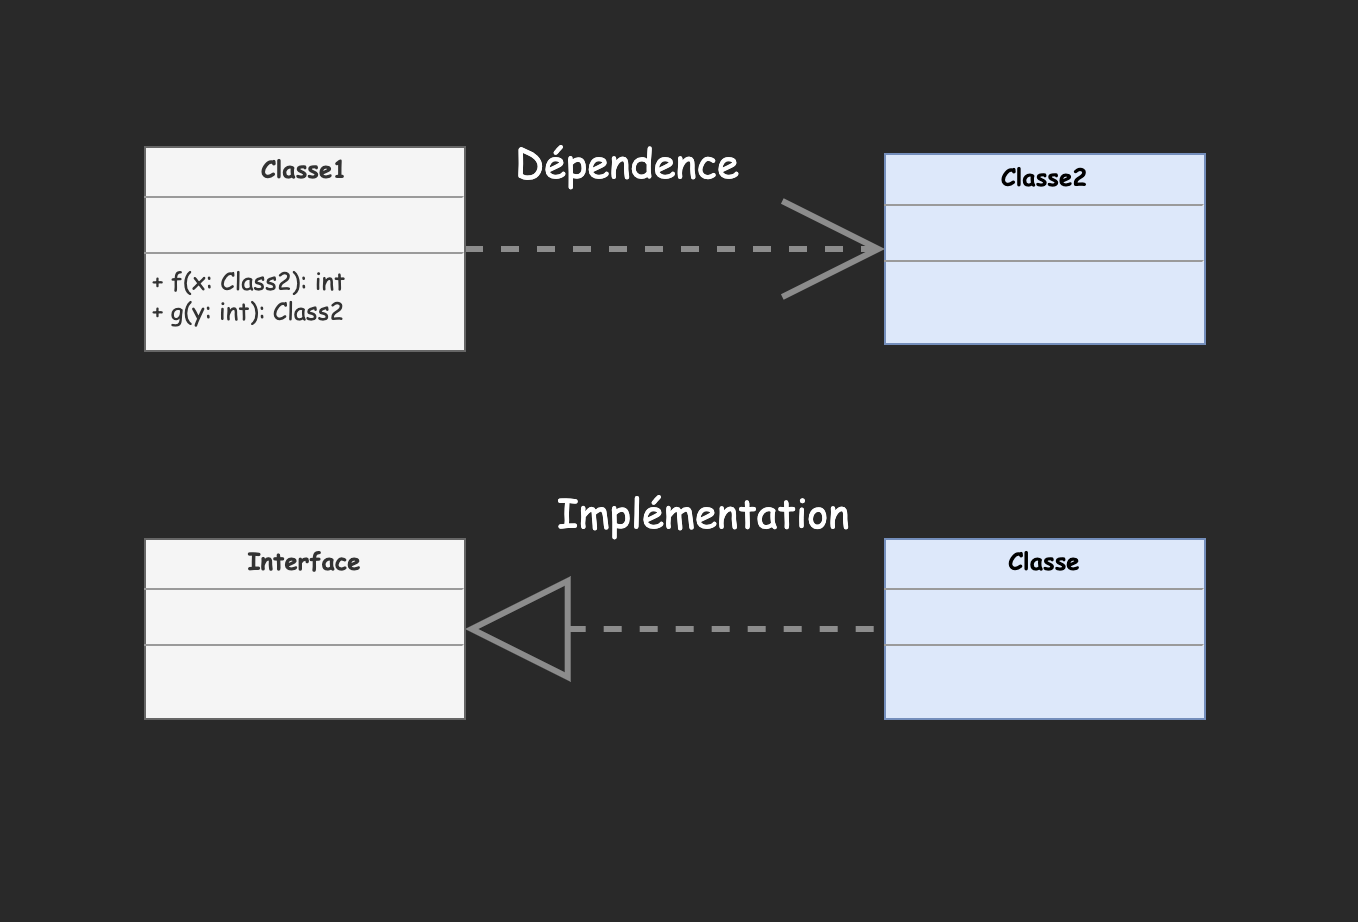
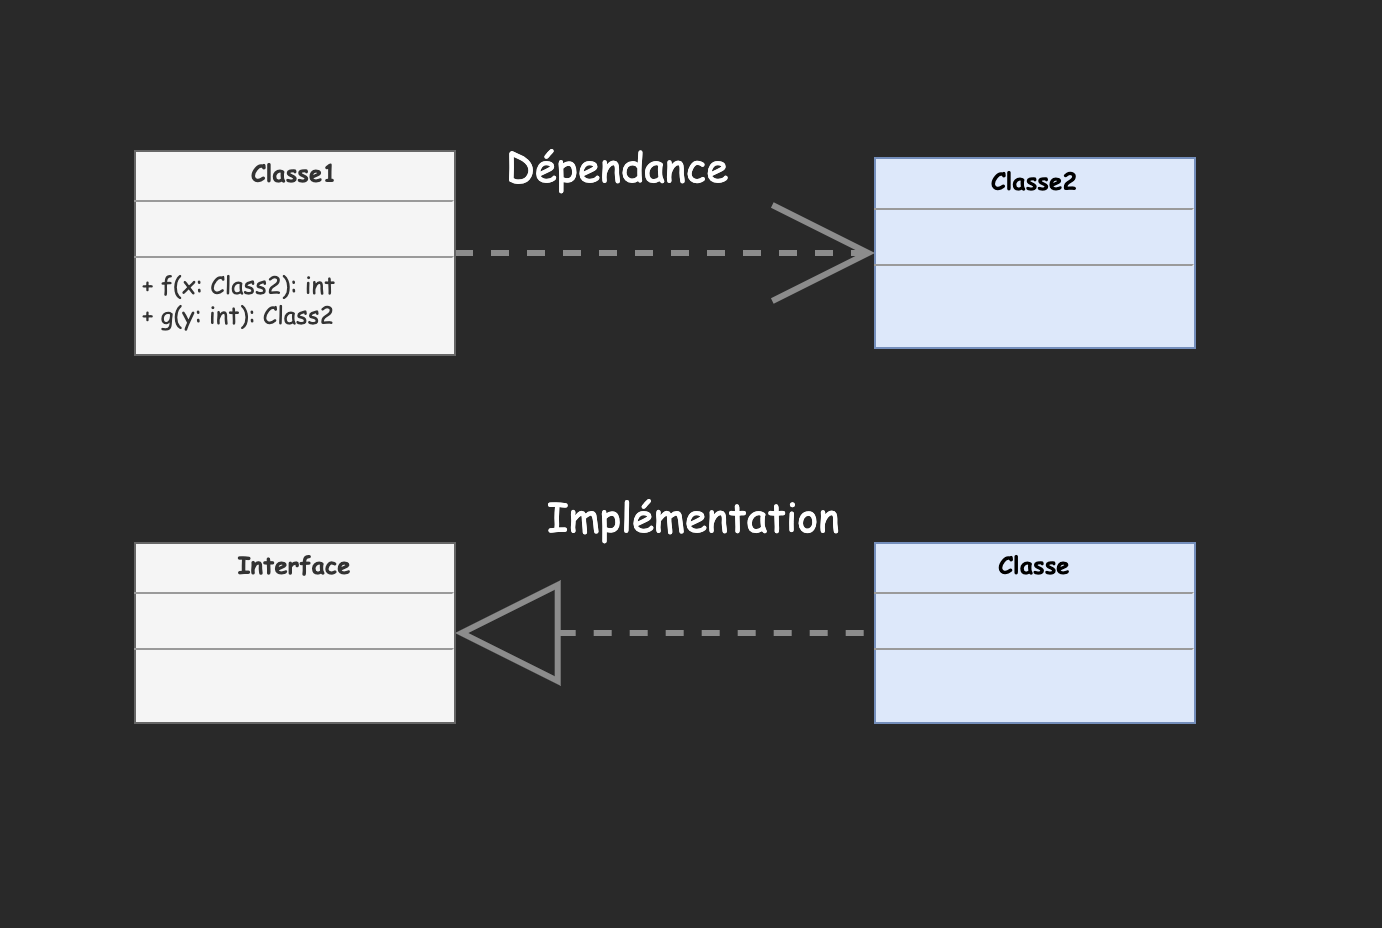
correction de dependence par depandance dans la presentation de diagramme de classes

diff --git a/diagramme-de-classes.html b/diagramme-de-classes.html
@@ -69,12 +69,16 @@
                 <img src="./images/associationDecoree.png" style="height: 400px; margin: 0 auto 4rem auto; background: transparent;">
             </section>
             <section>
+                <h4>Concept de spécification ou de description</h4>
+                <img src="./images/conceptDeSpecification.png" style="height: 200px; margin: 0 auto 4rem auto; background: transparent;">
+            </section>
+            <section>
                 <p>Point de vue implémentation</p>
                 <small><p>Des contraintes peuvent être ajoutées</p></small> 
                 <img src="./images/contraintes.png" style="height: 500px; margin: 0 auto 4rem auto; background: transparent;">
             </section>
             <section>
-                <p>Un ensemble de classes sous une généralisation peut être spécifié</p>
+                <p>Un ensemble de classes sous une généralisation peut être spécifié:</p>
                 <small>
                     <ul>
                         <li>complete, incomplete</li>
@@ -93,10 +97,7 @@
                 <h4>Classes d'association</h4>
                 <img src="./images/classesAssociation.png" style="height: 350px; margin: 0 auto 4rem auto; background: transparent;">
             </section>
-            <section>
-                <h4>Concept de spécification ou de description</h4>
-                <img src="./images/conceptDeSpecification.png" style="height: 200px; margin: 0 auto 4rem auto; background: transparent;">
-            </section>
+
 
 		<script src="dist/reveal.js"></script>
 		<script src="plugin/notes/notes.js"></script>
